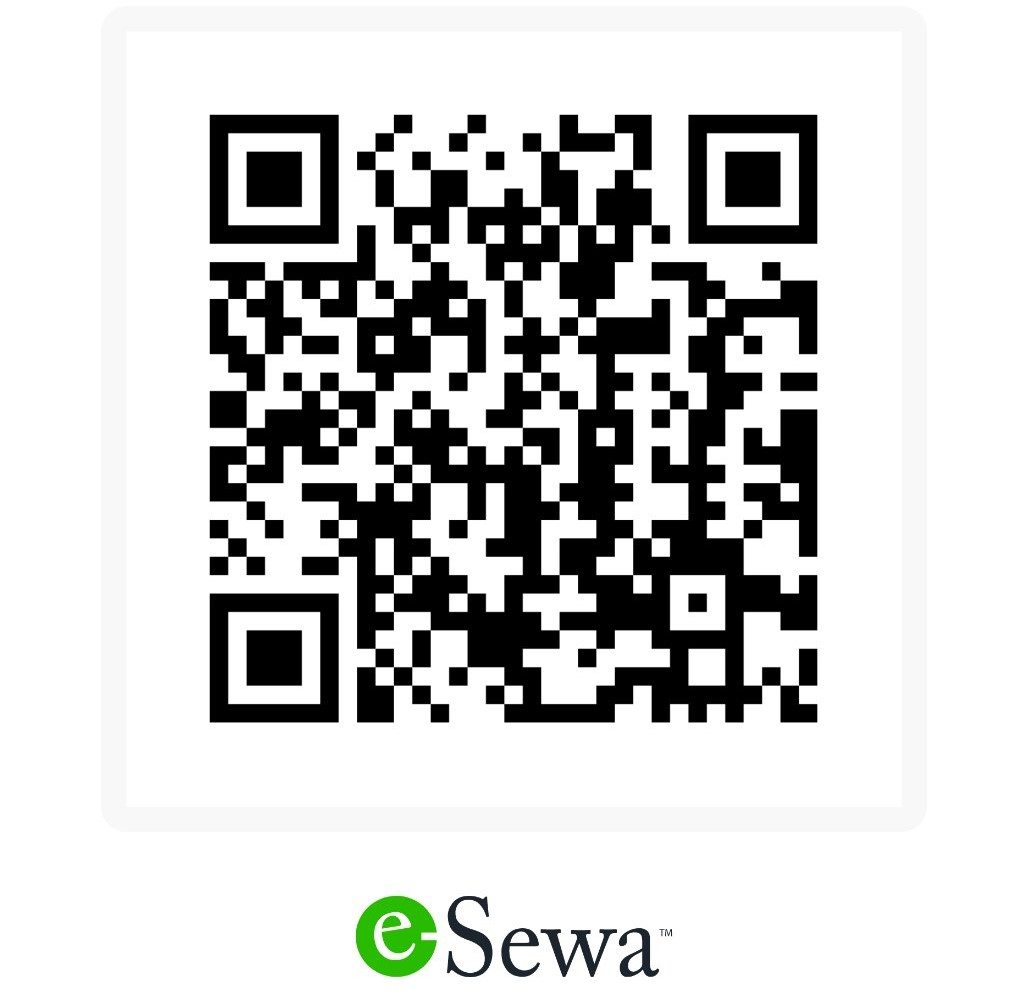
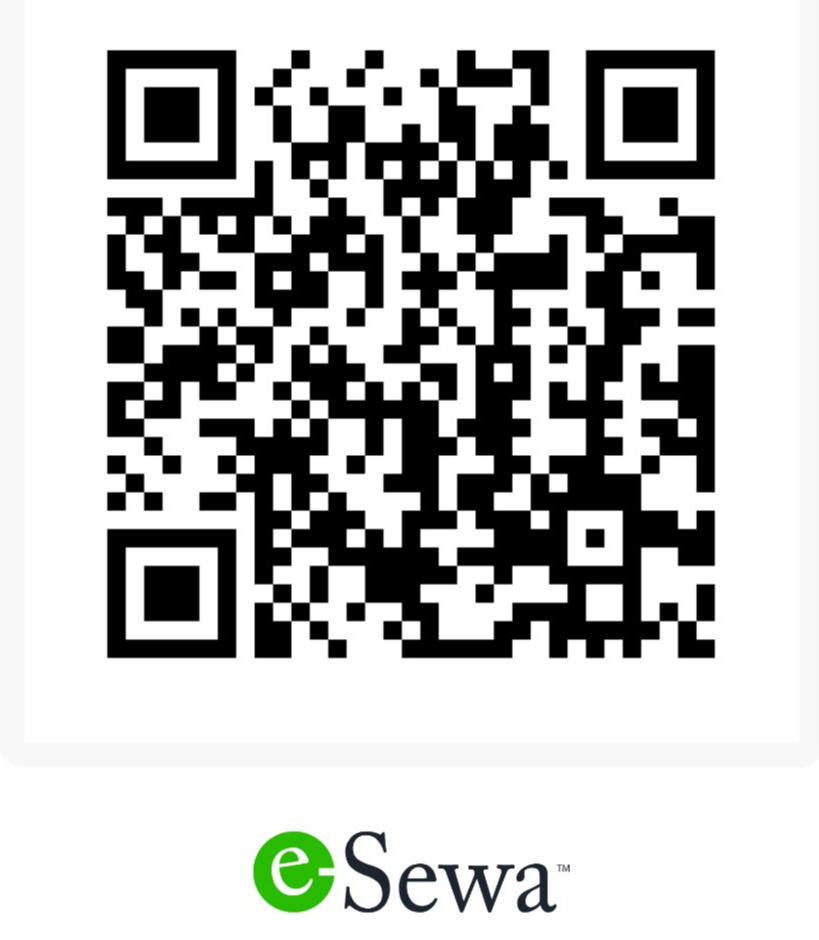
Update Esewa QR on payment pages

Changed region(s): [[0.1221, 0.0309, 0.8852, 0.7404], [0.3053, 0.8638, 0.6716, 0.9872]]

diff --git a/ai/index.html b/ai/index.html
@@ -82,7 +82,11 @@
               </dl>
             </div>
             <div class="qr-card">
-              <img src="/assets/esewa-qr.jpg" alt="Esewa payment QR" />
+              <img
+                class="esewa-qr-image"
+                src="/assets/esewa-qr.jpg"
+                alt="Esewa payment QR"
+              />
               <span>Esewa QR</span>
             </div>
           </article>

diff --git a/sen/index.html b/sen/index.html
@@ -81,7 +81,11 @@
               </dl>
             </div>
             <div class="qr-card">
-              <img src="/assets/esewa-qr.jpg" alt="Esewa payment QR" />
+              <img
+                class="esewa-qr-image"
+                src="/assets/esewa-qr.jpg"
+                alt="Esewa payment QR"
+              />
               <span>Esewa QR</span>
             </div>
           </article>

diff --git a/ai/payment.css b/ai/payment.css
@@ -307,6 +307,11 @@ dd {
   box-shadow: 0 12px 30px rgba(17, 24, 39, 0.08);
 }
 
+.qr-card img.esewa-qr-image {
+  aspect-ratio: auto;
+  object-fit: contain;
+}
+
 .qr-card span {
   color: var(--brand-blue-dark);
   font-size: 0.9rem;
